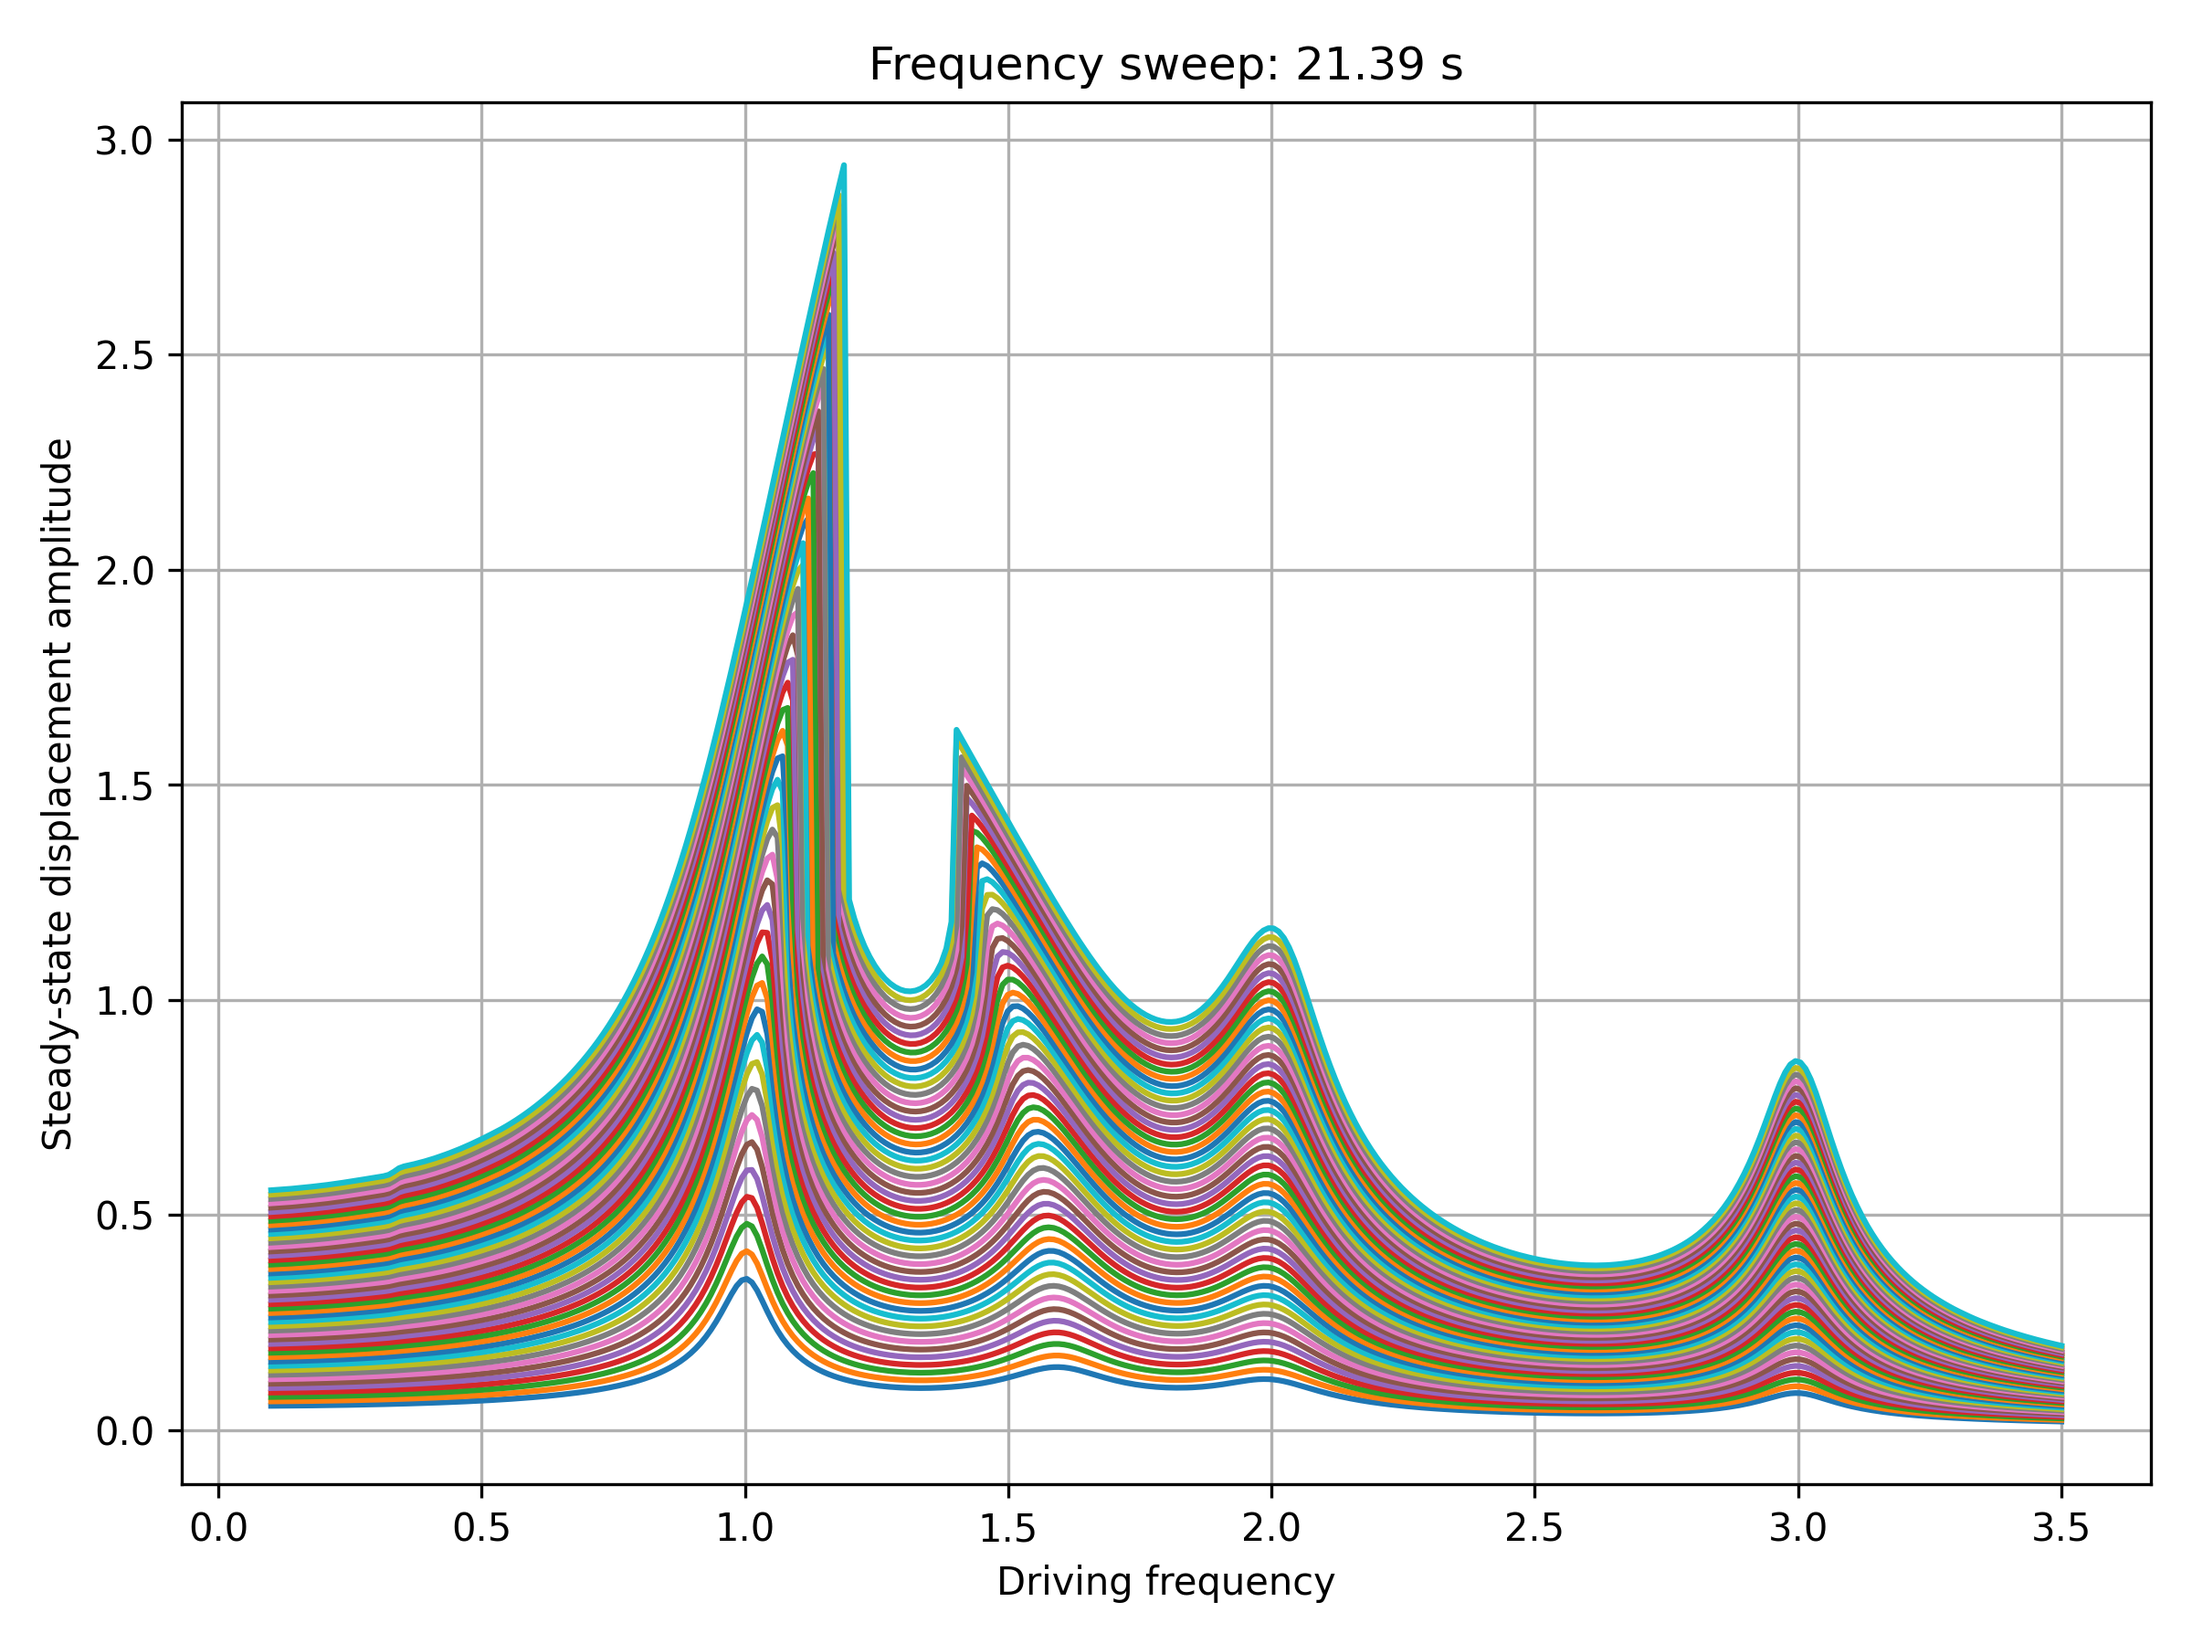
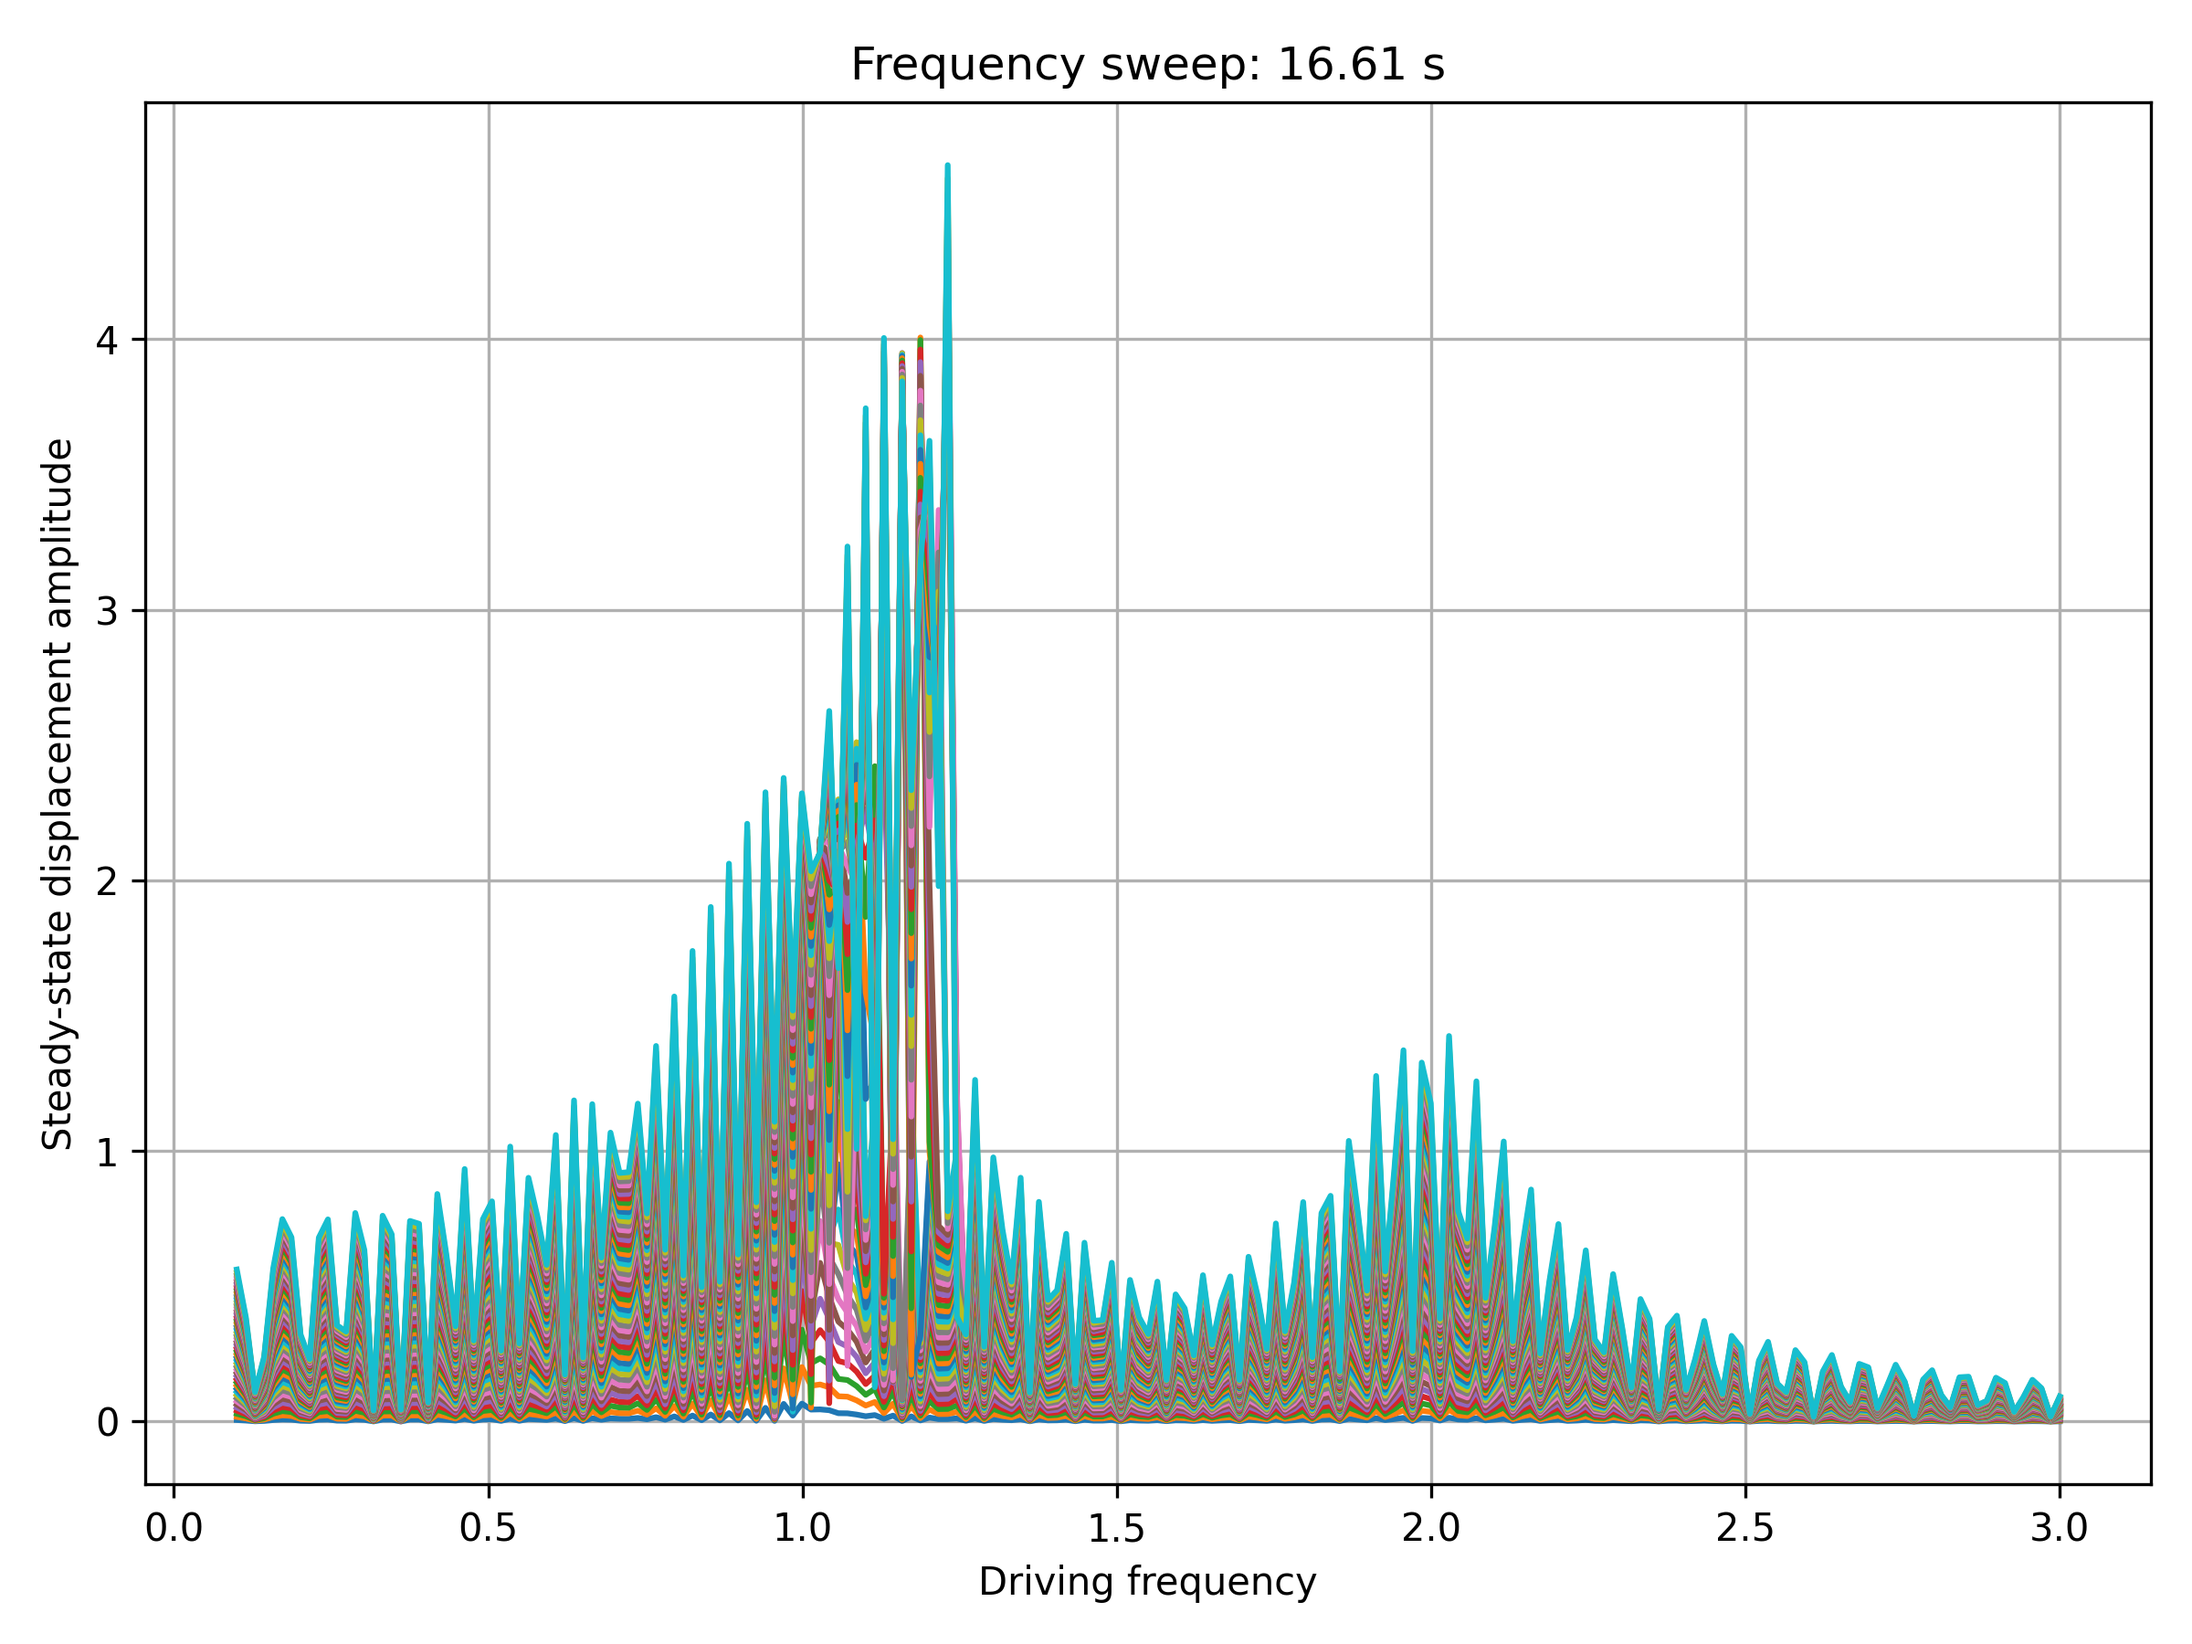
Trying to fix summing time response

diff --git a/src/oscidyn/simulation/simulations/frequency_sweep.py b/src/oscidyn/simulation/simulations/frequency_sweep.py
@@ -274,17 +274,14 @@ def _fine_sweep(
     vel  = ys[..., n_modes:]
 
     _ss_time, ss_disp, ss_vel = _get_steady_state_part(freq_flat, ts, disp, vel)
+    
+    max_disp_total = jnp.max(jnp.abs(jnp.sum(ss_disp, axis=1)), axis=1)  # (n_freq*n_amp,)
+    max_vel_total  = jnp.max(jnp.abs(jnp.sum(ss_vel,  axis=1)), axis=1)  # (n_freq*n_amp,)
 
-    max_disp = jnp.max(jnp.abs(ss_disp), axis=1)   # (n_freq*n_amp, n_modes)
-    max_vel  = jnp.max(jnp.abs(ss_vel),  axis=1)   # (n_freq*n_amp, n_modes)
-
-
-    # elapsed = time.time() - start_time
-    # sims_per_sec = n_simulations / elapsed
-    # sims_per_sec_formatted = f"{sims_per_sec:,.0f}".replace(",", ".")
-    # print(f"-> completed in {elapsed:.3f} seconds ", f"({sims_per_sec_formatted} simulations/sec)")
-
-    return max_disp, max_vel
+    max_disp_modes = jnp.max(jnp.abs(ss_disp), axis=1)   # (n_freq*n_amp, n_modes)
+    max_vel_modes  = jnp.max(jnp.abs(ss_vel),  axis=1)   # (n_freq*n_amp, n_modes)
+    
+    return max_disp_total, max_vel_total, max_disp_modes, max_vel_modes
 
 def frequency_sweep(
     model: AbstractModel,
@@ -342,8 +339,8 @@ def frequency_sweep(
     ss_disp_amp = jnp.abs(y_max_disp_sel[..., :model.n_modes])   # (n_coarse_freq, n_coarse_amp, n_modes)
 
     #plt.plot_branch_selection(driving_frequencies, driving_amplitudes, ss_disp_amp)
-    
-    ss_disp_amp, ss_vel_amp = _fine_sweep(
+
+    max_disp_total, max_vel_total, max_disp_modes, max_vel_modes = _fine_sweep(
         model=model,
         t_max_disp=t_max_disp_sel,
         y_max_disp=y_max_disp_sel,
@@ -352,15 +349,11 @@ def frequency_sweep(
         solver=solver,
     )
 
-    # ASSUMPTION: Mode superposition validity for nonlinear systems
-    tot_ss_disp_amp = jnp.sum(ss_disp_amp, axis=1)
-    tot_ss_vel_amp = jnp.sum(ss_vel_amp, axis=1)
-
     result = {
-        'ss_disp_amp': ss_disp_amp, # (n_driving_frequencies * n_driving_amplitudes, n_modes)
-        'ss_vel_amp': ss_vel_amp, # (n_driving_frequencies * n_driving_amplitudes, n_modes)
-        'tot_ss_disp_amp': tot_ss_disp_amp, # (n_driving_frequencies * n_driving_amplitudes,)
-        'tot_ss_vel_amp': tot_ss_vel_amp, # (n_driving_frequencies * n_driving_amplitudes,)
+        'ss_disp_amp': max_disp_modes, # (n_driving_frequencies * n_driving_amplitudes, n_modes)
+        'ss_vel_amp': max_vel_modes, # (n_driving_frequencies * n_driving_amplitudes, n_modes)
+        'tot_ss_disp_amp': max_disp_total, # (n_driving_frequencies * n_driving_amplitudes,)
+        'tot_ss_vel_amp': max_vel_total, # (n_driving_frequencies * n_driving_amplitudes,)
         'model': model,
     }
     return result

diff --git a/tests/frequency_sweep/test_frequency_sweep.py b/tests/frequency_sweep/test_frequency_sweep.py
@@ -2,20 +2,17 @@ from jax import numpy as jnp
 import time
 import oscidyn
 
-Q, omega_0, gamma = jnp.array([10.0, 8.0, 10.0, 20.0]), jnp.array([1.0, 1.6, 2.0, 3.0]), jnp.zeros((4,4,4,4))
+Q, omega_0, gamma = jnp.array([10.0, 8.0]), jnp.array([1.0, 2.0]), jnp.zeros((2,2,2,2))
+gamma = gamma.at[0,0,0,0].set(0.02)
 
-gamma = gamma.at[0,0,0,0].set(0.1)
-gamma = gamma.at[1,1,1,1].set(-0.7)
-gamma = gamma.at[2,2,2,2].set(0.1)
 
-gamma = gamma.at[2,0,0,2].set(-0.0)
 full_width_half_max = omega_0 / Q
 
 MODEL = oscidyn.BaseDuffingOscillator.from_physical_params(Q=Q, gamma=gamma, omega_0=omega_0)
 SWEEP_DIRECTION = oscidyn.SweepDirection.FORWARD
 #DRIVING_FREQUENCY = jnp.linspace(1.0 - 25*full_width_half_max, 1.0 + 25*full_width_half_max, 101)
-DRIVING_FREQUENCY = jnp.linspace(0.1, 3.5, 351)
-DRIVING_AMPLITUDE = jnp.linspace(0.1 * (omega_0**2 / Q).mean(), 1.0 * (omega_0**2 / Q).mean(), 50)
+DRIVING_FREQUENCY = jnp.linspace(0.1, 3.0, 201)
+DRIVING_AMPLITUDE = jnp.linspace(0.1 * omega_0[0]**2 / Q[0], 10.0 * omega_0[0]**2 / Q[0], 50)
 SOLVER = oscidyn.FixedTimeSteadyStateSolver(max_steps=4_096*1000, rtol=1e-5, atol=1e-7, progress_bar=True)
 PRECISION = oscidyn.Precision.SINGLE
 
